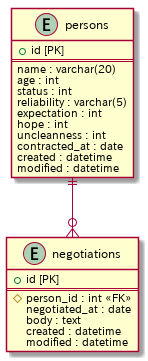
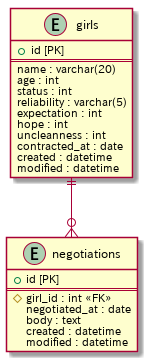
ドキュメントを更新

diff --git a/src/900_appendix/02_comments.md b/src/900_appendix/02_comments.md
@@ -5,30 +5,43 @@
 - 案件の積み上げが年間目標に到底及ばない状態で営業部長に詰められるインキュベーターさんとかを想像するとちょっと気分が晴れるかもしれません。[^but]
 - 架空のシステムですが、スクリーンキャプチャ用の素材としてCakePHPで雑にでっち上げました。[^cakephp]
 - タイトルが設計書になっていますが設計書の正しい書き方とかよくわかりません。[^demo]
-- そもそも、よその会社で作った設計書とか見せ合う機会が普通はないので、設計書のありかたについて語り合うのって難しそうです。[^souiuimi]
+- そもそも、よその会社で作った設計書とか見せ合う機会が普通はないので、設計書のありかたについて議論すること自体が難しそうです。[^souiuimi]
 
 **概要**
 
 - システムの名称に始まって、目的（何をするためのシステムが）、特徴（または機能概要とか）、用語の定義などが書かれているのが一般的かなと思います。
-- 業務フローとかNW構成[^nw]とかもあまりボリュームが無いのでここに含めてしまいました。
-- コラム的なものはPandocのカスタムスタイルを指定して、Pandoc用のdocxテンプレート（Pandoc的には"reference"）内に対応するスタイルを定義することで実現しています。
+- 業務フローとかNW構成[^nw1]とかもあまりボリュームが無いのでここに含めてしまいました。
+- コラム的な装飾枠はPandocのカスタムスタイル[^custom-style]を指定して、Pandoc用のdocxテンプレート（Pandoc的には"reference"）内に対応するスタイルを定義することで実現しています。
 
     ```
-    ::: {custom-style="TipsInfo"}
-    本来、各個体が記憶を共有する利用者において、個別の交渉経緯を共有するための仕組みは不要であるが、交渉経緯を記録することによって将来的な交渉技術の改善に資することが期待できるため、交渉過程の記録は必須とする。
+    ::: {custom-style=TipsDanger}
+    契約を締結する際は、重要事項の説明を必ず行うこと。
     :::
     ```
+
+    あとがきの日付のような右寄せも、同様にカスタムスタイルを使っています。
+
+    ```
+    ::: {custom-style="DateName"}
+    2019年8月12日
+    
+    Kojiro
+    :::
+    ```
+
+    カスタムスタイルは上記のようなブロック要素以外に、インライン要素にも使えるので、工夫すればいろいろな表現が可能になります。
 
 **画面設計**
 
 - 本当の設計フェーズならワイヤーフレームとかになるのかもしれませんが、納品物としてはスクリーンショットに差し替えたりするのが一般的なんでしょうか？
+- 後から気づきましたがフィールドのバリデーションルールなども書いたほうが良かったかもしれません。
 
 **データベース設計**
 
 - ありがちなテーブル定義書です。
 - ER図はDBからPlantUMLの書式を生成したいと思いましたが、PostgreSQL用のツールはドンピシャなのがあるのに[^planter]、MySQL（MariaDB）には対応していませんでした。
-- なので手でPlantUML用のファイルを書いています。
-- テーブル定義に限ってはExcelで作るのがデフォという雰囲気もありますが、『消し去りたい本』にも書いたように、自作のツールを使ってMarkdownを生成しています。
+- なのでここは手でPlantUML用のER図を書いています。[^plantuml-er]
+- テーブル定義に限ってはExcelで作るのがデフォという雰囲気もありますが、『消し去りたい本』にも書いたように、自作のツール[^php-dbdoc]を使ってMarkdownを生成しています。
 - この様式は、カラムひとつひとつの説明を詳しく書ける利点があります。
 
 
@@ -36,6 +49,10 @@
 [^but]: と思ったけど他人事とは思えなくなって嫌な汗が出ます
 [^cakephp]: いまならLaravelとかVue.jsを使ったかもしれません
 [^demo]: でも納品物に設計書ってあったら書かきゃいけないわけです
-[^souiuimi]: そういう意味では、架空のシステムについての設計書を一通り書くというの
-[^nw]: 冗長化無しのシングル構成なのは値切られたからと思ってください
+[^souiuimi]: そういう意味では、架空のシステムについての設計書を一通り書くという行いが、ドキュメントに関する議論のたたき台になるといいなあとも思います
+[^nw1]: 冗長化無しのシングル構成なのは値切られたからと思ってください
+[^custom-style]: [https://pandoc.org/MANUAL.html#custom-styles](https://pandoc.org/MANUAL.html#custom-styles)
 [^planter]: [https://github.com/achiku/planter](https://github.com/achiku/planter)
+[^php-dbdoc]: [https://github.com/kojiro526/php-dbdoc](https://github.com/kojiro526/php-dbdoc)
+[^plantuml-er]: サンプルシステムがしょぼくてテーブルがふたつしか無いER図になってしまいましたが……
+

diff --git a/src/020_screen/05_candidate_view.md b/src/020_screen/05_candidate_view.md
@@ -1,49 +1,73 @@
-## 少女登録・更新画面
+## 魔法少女詳細画面
 
-少女登録・更新画面の仕様を以下に示す。
+魔法少女詳細画面の仕様を以下に示す。
 
 ### 概要
 
-本画面は以下の目的のためのフォームを提供する。
+本画面は登録された少女に関する以下の情報を表示する。
 
-- 少女を魔法少女候補として本システムに新規に登録する
-- 登録された少女の情報を更新する
+- 登録された少女の情報
+- 少女の状態
+- 該当の少女に対する交渉の履歴
+
+また、以下の操作を行うためのインターフェースを提供する。
+
+- 少女の状態が「魔法少女候補」である場合、「契約を締結」ボタンを表示する。
 
 ### スクリーンショット
 
-![少女登録画面](images/parsons_add.png)
-
-![少女更新画面](images/parsons_update.png)
+![魔法少女詳細画面](images/parsons_view.png)
 
 ### 構成要素
 
 本画面を構成する要素は以下の通り。
 
-1. 入力フォーム
+1. 状態表示
+2. 「契約を締結」ボタン
+3. 詳細情報
+4. 関連する交渉経緯
 
 各要素の詳細は以下の通り。
 
-#### 1. 入力フォーム
+#### 1. 状態表示
 
-本画面に表示する入力フォームは以下の通り。
+画面上に、現在の少女の状態を表示する。
 
-| No | 項目     | 種別     | 長さ | 必須 |
-|---:|:---------|:---------|-----:|:----:|
-|  1 | 名前     | テキスト |   15 |  ○   |
-|  2 | 年齢     | 数値     |    2 |  ○   |
-|  3 | 確度     | リスト   |    2 |  ○   |
-|  4 | 見込み値 | 数値     |    2 |  ○   |
-|  5 | 希望値   | 数値     |    2 |  ○   |
+![状態表示](images/parsons_view_status.png){width=300}
+
+#### 2. 「契約を締結」ボタン
+
+![契約を締結](images/parsons_view_contract.png){width=300}
+
+状態が「魔法少女候補」の場合、画面右上に「契約を締結」ボタンを表示する。
+
+ボタンを押下すると、確認ダイアログを表示したのち、「OK」を押下した場合に状態が「契約済み」となる。
+
+::: {custom-style=TipsDanger}
+契約を締結する際は、重要事項の説明を必ず行うこと。
+:::
+
+#### 3. 詳細情報
+
+詳細情報テーブルに表示する項目は以下の通り。
 
 1. 名前
 
     少女の氏名を入力する。
 
-2. 年齢
+2. ID
+
+    少女を一意に特定するID。
+
+3. 年齢
 
     少女の年齢を入力する。
 
-3. 確度
+4. 状態
+
+    ステータス一覧を参照
+
+5. 確度
 
     契約交渉時の成約確度をリストから選択する。
 
@@ -60,7 +84,7 @@
     - E：契約意思無し
         - 契約に対して明確に拒絶の意思を示す状態。
 
-4. 見込み値
+6. 見込み値
 
     少女から最終的に得られると見込まれるエネルギー量を入力する。
 
@@ -68,8 +92,12 @@
 
     本入力欄にて登録された値は、ダッシュボードの「エネルギー回収計画」の合計値に反映される。
 
-5. 希望値
+7. 希望値
 
     少女が登録時点で抱く「希望」の度合いを入力する。
 
     本項目は「希望」が「絶望」に相転移した際に得られるエネルギー量を見積もるための指標として利用される。
+
+#### 4. 関連する交渉過程
+
+該当する少女に対する交渉の履歴を降順で表示する。

diff --git a/src/020_screen/03_candidate_list.md b/src/020_screen/03_candidate_list.md
@@ -1,33 +1,26 @@
-## 少女一覧画面
+## 魔法少女一覧画面
 
-少女一覧画面の仕様を以下に示す。
+魔法少女一覧画面の仕様を以下に示す。
 
 ### 概要
 
 本画面は、システムに登録された少女の一覧を表示する。
 
+### スクリーンショット
+
+![魔法少女一覧画面](images/parsons_list.png)
+
 ### 構成要素
 
 本画面を構成する要素は以下の通り。
 
-1. 少女一覧テーブル
+1. 魔法少女一覧テーブル
 
 各要素の詳細は以下の通り。
 
-#### 1. 少女一覧テーブル
+#### 1. 魔法少女一覧テーブル
 
-少女一覧テーブルの項目は以下の通り。
-
-| No | 項目   |
-|---:|:-------|
-|  1 | ID     |
-|  2 | 名前   |
-|  3 | 年齢   |
-|  4 | 状態   |
-|  5 | 希望値 |
-|  6 | 作成日 |
-|  7 | 更新日 |
-|  8 | 操作   |
+魔法少女一覧テーブルの項目は以下の通り。
 
 1. **ID**
 
@@ -62,7 +55,10 @@
     データに対する操作を行う為のボタンを表示
 
     - 詳細
+        - 魔法少女詳細画面に遷移
     - 編集
+        - 魔法少女更新画面に遷移
     - 削除
+        - 確認ダイアログを表示したのち、該当データを削除
 
-[^1]: 本来であれば生年（月日）を登録して年齢は計算によって算出するべきであるが、2011年を起点としてその14〜15年前を誕生日として設定するとキャラクターがどんどん年を取ってしまうことから年齢を入力することとした。
+[^1]: 本来であれば生年（月日）を登録して年齢は計算によって算出するべきであるが、2011年を起点としてその14〜15年前を誕生日として設定すると魔法少女がどんどん年を取ってしまうので年齢を入力することとした。

diff --git a/src/900_appendix/03_pre.md b/src/900_appendix/03_pre.md
@@ -10,7 +10,7 @@
 
 [https://github.com/kojiro526/witch-contract-design](https://github.com/kojiro526/witch-contract-design)
 
-Excelを使ったドキュメント作成に疲弊している世のSE・SIの皆さまが、軽量マークアップ言語[^markup]によるドキュメント作成に手を出す際に、プレーンテキスト（Markdown）でだいたいどの程度の表現が可能なのか[^asciidoc]という参考にしていただけたら幸いです。
+Excelを使ったドキュメント作成に疲弊している世のSE・SIの皆さまが、軽量マークアップ言語によるドキュメント作成に手を出す際に、プレーンテキスト（Markdown）でだいたいどの程度の表現が可能なのか[^asciidoc]という参考にしていただけたら幸いです。
 
 ::: {custom-style="DateName"}
 2019年8月12日
@@ -23,6 +23,5 @@ Kojiro
 [^plantuml]: [http://plantuml.com/ja/](http://plantuml.com/ja/)
 [^nwdiag]: [http://blockdiag.com/ja/nwdiag/index.html](http://blockdiag.com/ja/nwdiag/index.html)
 [^build]: 印刷版は、入稿のために背表紙にあたるページを手で付け加えたりしているため、ソースをビルドした状態とまったく同じにはなりません。
-[^markup]: Mark**down**を軽量**マークアップ**言語に含める妥当性についてのつっこみはご容赦ください。
 [^asciidoc]: もちろん、Markdownにこだわらず、Asciidoctor( [https://asciidoctor.org/](https://asciidoctor.org/) )などを使えばより豊かな表現でドキュメントを書くことができると思います。
 

diff --git a/src/010_overview/03_flow.md b/src/010_overview/03_flow.md
@@ -14,7 +14,7 @@
 
 利用者は魔法少女となる可能性を持った少女の存在を認めた場合、本システムから魔法少女候補として登録を行う。
 
-登録の際、最終的に得られるエネルギーの見込み値や契約確度等を合わせて入力することで、当期の営業目標に対する進捗を効率的に把握できる物とする。
+登録の際、最終的に得られるエネルギーの見込み値や契約確度等を合わせて入力することで、当期の営業目標に対する進捗を可視化できる。
 
 **契約交渉**
 
@@ -40,7 +40,7 @@
 
 後日実装予定のAPIを通じて、ソウルジェムから自動的に状態を更新することも可能とする。
 
-ソウルジェムがグリーフシード化した場合、本システムの管理上では魔女となり、エネルギー改修済みとして案件はクローズされる。（状態は「魔女」となる）
+ソウルジェムがグリーフシード化した場合、本システムの管理上では魔女となり、エネルギー回収済みとして案件はクローズされる。（状態は「魔女」となる）
 
 ::: {custom-style="TipsInfo"}
 本来、各個体が記憶を共有する利用者において、個別の交渉経緯を共有するための仕組みは不要であるが、交渉経緯を記録することによって将来的な交渉技術の改善に資することが期待できるため、交渉過程の記録は必須とする。

diff --git a/src/020_screen/04_candidate_edit.md b/src/020_screen/04_candidate_edit.md
@@ -1,6 +1,6 @@
-## 少女登録・更新画面
+## 魔法少女登録・更新画面
 
-少女登録・更新画面の仕様を以下に示す。
+魔法少女登録・更新画面の仕様を以下に示す。
 
 ### 概要
 
@@ -13,7 +13,9 @@
 
 ![少女登録画面](images/parsons_add.png)
 
-![少女更新画面](images/parsons_update.png)
+![少女更新画面（魔法少女候補）](images/parsons_update.png)
+
+![少女更新画面（契約済み）](images/parsons_update2.png)
 
 ### 構成要素
 
@@ -34,6 +36,7 @@
 |  3 | 確度     | リスト   |    2 |  ○   |
 |  4 | 見込み値 | 数値     |    2 |  ○   |
 |  5 | 希望値   | 数値     |    2 |  ○   |
+|  6 | 穢れ値   | 数値     |    2 |  ○   |
 
 1. 名前
 
@@ -73,3 +76,11 @@
     少女が登録時点で抱く「希望」の度合いを入力する。
 
     本項目は「希望」が「絶望」に相転移した際に得られるエネルギー量を見積もるための指標として利用される。
+
+6. 穢れ値
+
+    ソウルジェムの穢れの度合いを示す値を入力する。
+
+    本項目は状態が「契約済み」の場合にのみ表示される。
+
+    本項目を100に設定して更新すると、状態が「魔女」に遷移する。

diff --git a/src/010_overview/02_overview.md b/src/010_overview/02_overview.md
@@ -14,7 +14,7 @@
 
 本システムが提供する主な機能は以下の通り。
 
-- 年度内のエネルギー抽出目標を設定し、目標に対する進捗管理が可能とする。
+- 年度内のエネルギー抽出目標を設定し、目標に対する進捗管理可能とする。
 - 魔法少女となりうる候補としての少女を登録し、少女が抱く希望の大きさを記録することで、抽出できるエネルギー量の見積を可能とする。
 - 魔法少女契約締結までの交渉過程を記録することで、交渉手法の振り返りと改善を可能とする。
 - 魔法少女契約後に少女が抱く絶望の大きさを記録することで、必要に応じて魔女化を後押しするなど時機を得た企画の立案を可能とする。
@@ -80,8 +80,8 @@
 本システムを構成する機能は以下の通り
 
 - ダッシュボード
-- 少女登録・更新画面
-- 少女一覧画面
-- 少女詳細画面
+- 魔法少女登録・更新画面
+- 魔法少女一覧画面
+- 魔法少女詳細画面
 
-[^overview-1]: http://amzn.asia/7MwTr0U
+[^overview-1]: [http://amzn.asia/7MwTr0U](http://amzn.asia/7MwTr0U)

diff --git a/src/020_screen/02_dashboard.md b/src/020_screen/02_dashboard.md
@@ -4,7 +4,7 @@
 
 ### 概要
 
-本画面は各少女の状態や、エネルギーの改修見込み値などを一望する機能を提供する。
+本画面は各少女の状態や、エネルギーの回収見込み値などを一望する機能を提供する。
 
 ### スクリーンショット
 
@@ -71,8 +71,8 @@
 交渉経緯に表示される項目は以下の通り。
 
 1. 名前
-    - 交渉を行った少女の名前。
-    - 該当する魔法少女候補詳細画面へのリンクを付加する。
+    - 交渉を行った少女の名前
+    - 該当する魔法少女候補詳細画面へのリンクを付加する
 2. 交渉日時
     - 交渉を行った日時
 3. 内容

diff --git a/src/000_cover/01_cover.md b/src/000_cover/01_cover.md
@@ -4,6 +4,6 @@ subtitle: Ver 1.0.0
 author:
 - ミタキハラシステムズ株式会社
 
-date: 2017-08-11  
+date: 2019-08-12
 toc-title: 目次  
 ...
